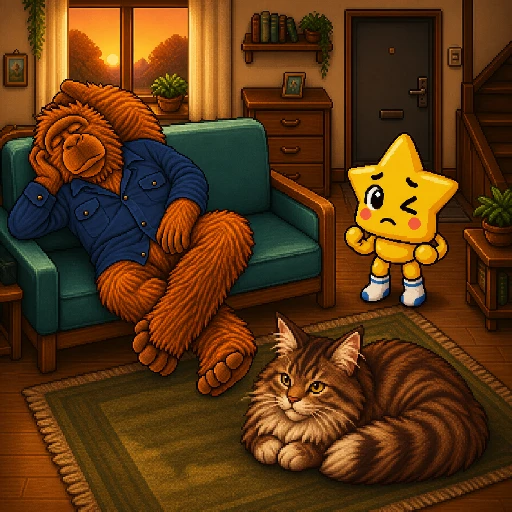
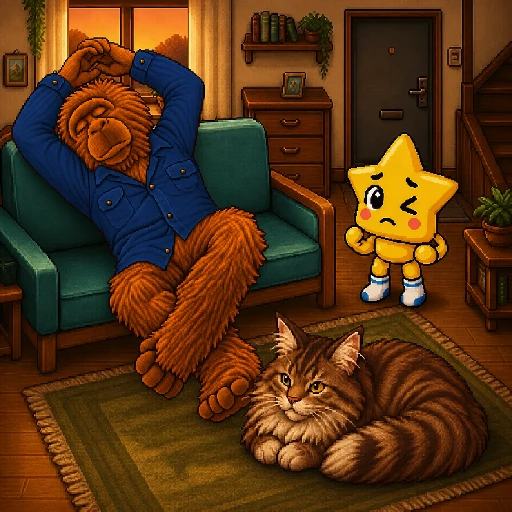
fix: タツヲの寝姿を両手を頭上に組むポーズへ修正

diff --git a/src/content/scenes.ts b/src/content/scenes.ts
@@ -283,7 +283,7 @@ export const SCENES: readonly SceneDefinition[] = [
     id: "tatsuoTooComfortable",
     band: "evening",
     title: "タツヲ、くつろぎすぎ",
-    description: "タツヲが二人掛けソファーをひとり占めし、片手で頭を支えたまま眠っている。",
+    description: "タツヲが二人掛けソファーをひとり占めし、両手を頭上で組んだまま眠っている。",
     lines: ["タツヲ、そこ二人掛けなんだけどな……。", "気持ちよさそう。起こすのも悪い気がするキチ……。"],
     details: [
       "タツヲの長い手足が、二つの座面をすっかり覆っている",
